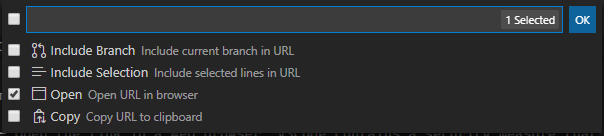
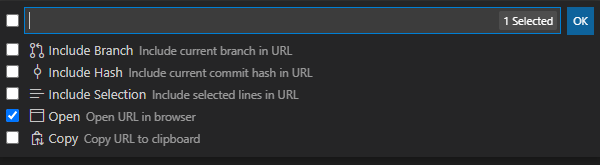
Add linking to a commit hash. Fixes #1

diff --git a/src/extension.ts b/src/extension.ts
@@ -2,6 +2,7 @@ import * as vscode from 'vscode';
 import { realpathSync } from 'fs';
 import { sep } from 'path';
 import { GitExtension } from './git';
+import { Hash } from 'crypto';
 
 // https://github.com/microsoft/vscode/tree/master/extensions/git#api
 const gitExtension = vscode.extensions.getExtension<GitExtension>('vscode.git')!.exports;
@@ -12,7 +13,7 @@ interface UrlRule {
 	webUrls?: string[];
 }
 
-function findUrl(config: vscode.WorkspaceConfiguration, cloneUrl: string, filename: string, branch: string | undefined, startLine: number | undefined, endLine: number | undefined): string {
+function findUrl(config: vscode.WorkspaceConfiguration, cloneUrl: string, filename: string, branch: string | undefined, startLine: number | undefined, endLine: number | undefined, hash: string | undefined): string {
 	const rules: UrlRule[] = [
 		{
 			remotePattern: config.get<string>('remotePattern'),
@@ -45,6 +46,11 @@ function findUrl(config: vscode.WorkspaceConfiguration, cloneUrl: string, filena
 										return `${endLine}`;
 									}
 									break;
+								case 'hash':
+									if(hash) {
+										return hash;
+									}
+									break;
 								default:
 									const num = +name;
 									if(!isNaN(num) && num >= 1 && num <= m.length) {
@@ -62,8 +68,12 @@ function findUrl(config: vscode.WorkspaceConfiguration, cloneUrl: string, filena
 	throw new Error(`No pattern matches clone URL: ${cloneUrl}`);
 }
 
-function openLink(includeRegion: boolean | undefined, includeBranch: boolean | undefined, actions?: string[] | undefined) {
+function openLink(includeRegion: boolean | undefined, includeBranch: boolean | undefined, includeHash: boolean | undefined, actions?: string[] | undefined) {
 	const config = vscode.workspace.getConfiguration('gitWebLink');
+	if(vscode.window.activeTextEditor?.document.isUntitled) {
+		vscode.window.showErrorMessage("Current file is unsaved");
+		return;
+	}
 	let filename = vscode.window.activeTextEditor?.document.fileName;
 	if(!filename) {
 		vscode.window.showErrorMessage("No file currently focused");
@@ -88,10 +98,13 @@ function openLink(includeRegion: boolean | undefined, includeBranch: boolean | u
 		return;
 	}
 
-	if(includeBranch === undefined && includeRegion === undefined) {
+	if(includeBranch === undefined && includeHash === undefined && includeRegion === undefined) {
 		const picks: vscode.QuickPickItem[] = [{
 			label: '$(git-pull-request) Include Branch',
 			description: 'Include current branch in URL',
+		}, {
+			label: '$(git-commit) Include Hash',
+			description: 'Include current commit hash in URL',
 		}];
 		if(vscode.window.activeTextEditor?.selection) {
 			picks.push({
@@ -113,7 +126,7 @@ function openLink(includeRegion: boolean | undefined, includeBranch: boolean | u
 			if(values === undefined) {
 				return;
 			}
-			let includeBranch = false, includeRegion = false;
+			let includeBranch = false, includeHash = false, includeRegion = false;
 			const actions: string[] = [];
 			for(const { label } of values) {
 				// Strip icon
@@ -121,6 +134,9 @@ function openLink(includeRegion: boolean | undefined, includeBranch: boolean | u
 				switch(text) {
 					case 'Include Branch':
 						includeBranch = true;
+						break;
+					case 'Include Hash':
+						includeHash = true;
 						break;
 					case 'Include Selection':
 						includeRegion = true;
@@ -131,7 +147,7 @@ function openLink(includeRegion: boolean | undefined, includeBranch: boolean | u
 						break;
 				}
 			}
-			openLink(includeRegion, includeBranch, actions);
+			openLink(includeRegion, includeBranch, includeHash, actions);
 		});
 		return;
 	}
@@ -144,16 +160,15 @@ function openLink(includeRegion: boolean | undefined, includeBranch: boolean | u
 	try {
 		const stem = filename.substring(repoRoot.length).replace(/\\/g, '/');
 		const branch = includeBranch ? repo.state.HEAD?.name : undefined;
+		const hash = includeHash ? repo.state.HEAD?.commit : undefined;
 		const sel = includeRegion ? vscode.window.activeTextEditor?.selection : undefined;
-		console.log(sel);
 		const startLine = sel ? sel.start.line + 1 : undefined;
 		const endLine = sel ? sel.end.line + (sel.start.line > sel.end.line && sel.end.character === 0 ? 0 : 1) : undefined;
-		url = findUrl(config, remoteUrl, stem, branch, startLine, endLine);
+		url = findUrl(config, remoteUrl, stem, branch, startLine, endLine, hash);
 	} catch(e) {
 		vscode.window.showErrorMessage(`${e}`);
 		return;
 	}
-	// console.log(url);
 	for(const action of actions) {
 		actOnUrl(url, action);
 	}
@@ -176,11 +191,13 @@ function actOnUrl(url: string, action: string) {
 
 export function activate(context: vscode.ExtensionContext) {
 	context.subscriptions.push(
-		vscode.commands.registerCommand('gitWebLink.linkToFile',           () => openLink(false,     false    )),
-		vscode.commands.registerCommand('gitWebLink.linkToRegion',         () => openLink(true,      false    )),
-		vscode.commands.registerCommand('gitWebLink.linkToFileOnBranch',   () => openLink(false,     true     )),
-		vscode.commands.registerCommand('gitWebLink.linkToRegionOnBranch', () => openLink(true,      true     )),
-		vscode.commands.registerCommand('gitWebLink.linkWizard',           () => openLink(undefined, undefined)),
+		vscode.commands.registerCommand('gitWebLink.linkToFile',           () => openLink(false,     false,     false)),
+		vscode.commands.registerCommand('gitWebLink.linkToRegion',         () => openLink(true,      false,     false)),
+		vscode.commands.registerCommand('gitWebLink.linkToFileOnBranch',   () => openLink(false,     true,      false)),
+		vscode.commands.registerCommand('gitWebLink.linkToRegionOnBranch', () => openLink(true,      true,      false)),
+		vscode.commands.registerCommand('gitWebLink.linkToFileAtHash',     () => openLink(false,     true,      true)),
+		vscode.commands.registerCommand('gitWebLink.linkToRegionAtHash',   () => openLink(true,      true,      true)),
+		vscode.commands.registerCommand('gitWebLink.linkWizard',           () => openLink(undefined, undefined, undefined)),
 	);
 }
 

diff --git a/README.md b/README.md
@@ -26,6 +26,7 @@ The following variables are supported in web URLs:
 |-|-|
 | `filename` | The current filename |
 | `branch` | The Git branch the repository is currently on
+| `hash` | The Git commit hash the repository is currently at
 | `startLine` | The first line of the selection (or the current line)
 | `endLine` | The last line of the selection
 | *`N`* | An integer to select a capture group in the remote pattern
@@ -50,14 +51,16 @@ The link commands can each trigger one of the following actions:
 
 Git Web Link provides a set of self-explanatory commands, all prefixed with **Git Web Link:**. The following variables are available for each command:
 
-| Command | `filename` | `branch` | `startLine` | `endLine` |
+| Command | `filename` | `branch` | `hash` | `startLine` | `endLine` |
 |-|-|-|-|-|
-| **Git Web Link: Link to file** | Yes | No | No | No |
-| **Git Web Link: Link to selection** | Yes | No | Yes | Yes |
-| **Git Web Link: Link to file on this branch** | Yes | Yes | No | No |
-| **Git Web Link: Link to selection on this branch** | Yes | Yes | Yes | Yes |
+| **Git Web Link: Link to file** | Yes | No | No | No | No |
+| **Git Web Link: Link to selection** | Yes | No | No | Yes | Yes |
+| **Git Web Link: Link to file on this branch** | Yes | Yes | No | No | No |
+| **Git Web Link: Link to selection on this branch** | Yes | Yes | No | Yes | Yes |
+| **Git Web Link: Link to file at this hash** | Yes | Yes | Yes | No | No |
+| **Git Web Link: Link to selection at this hash** | Yes | Yes | Yes | Yes | Yes |
 
-The final command is **Git Web Link: Wizard**, which prompts if you want to include the branch and/or selection, and if you want to open and/or copy the resulting link:
+The final command is **Git Web Link: Wizard**, which prompts if you want to include the branch and/or hash and/or selection, and if you want to open and/or copy the resulting link:
 
 ![](wizard.png)
 
